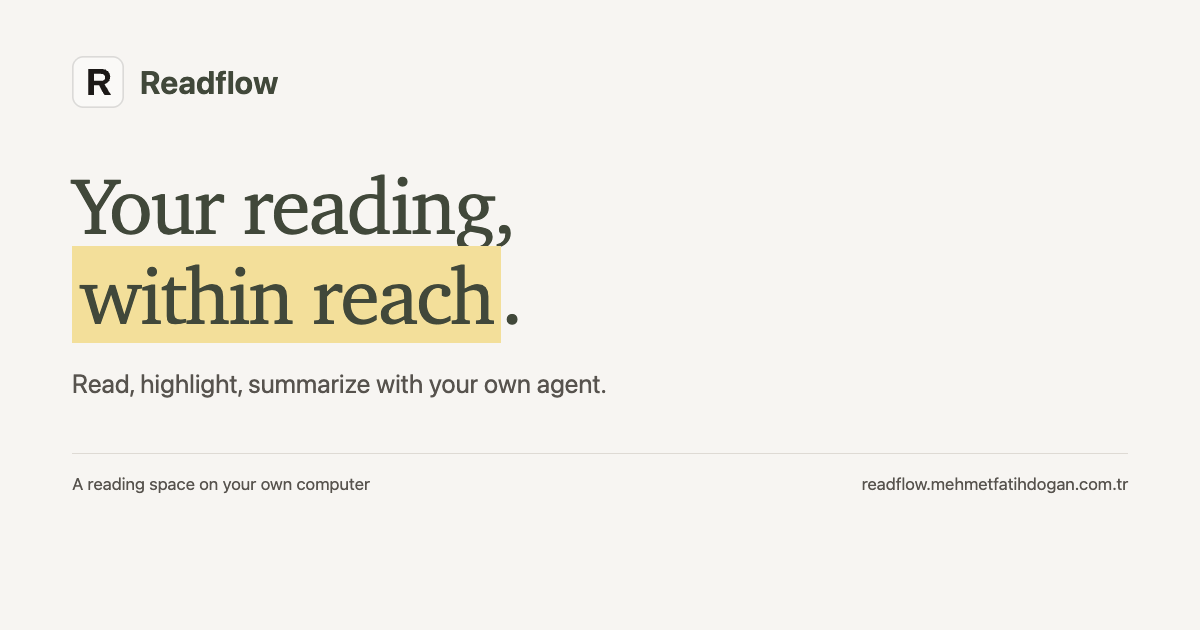
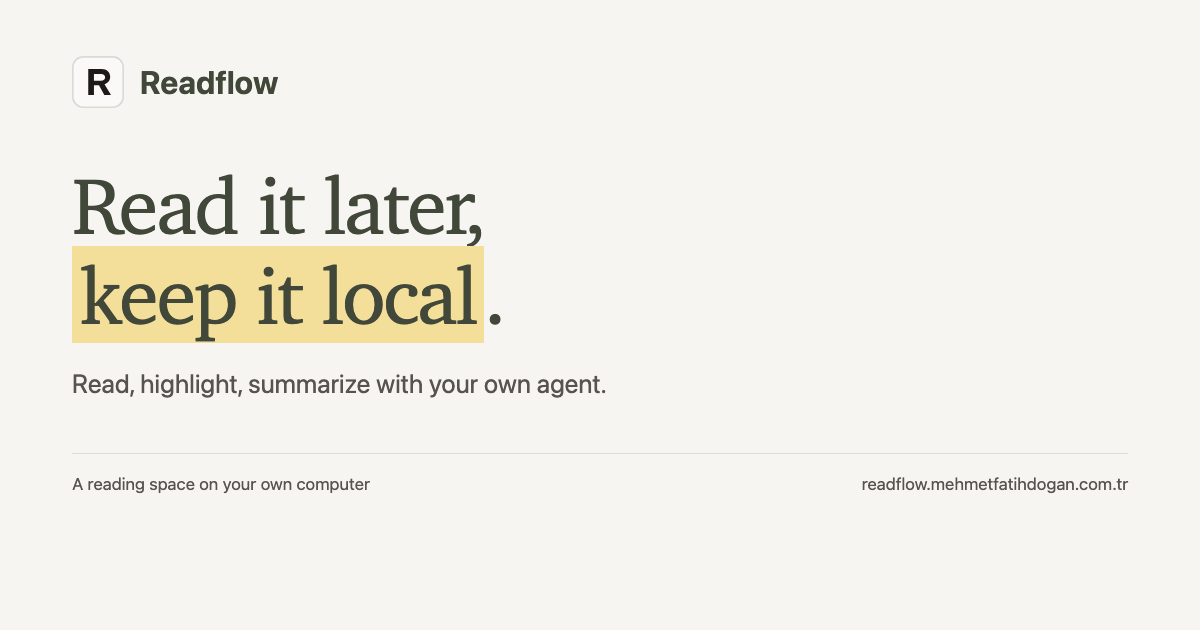
OG: paylaşım kartı ve alt metni yeni konumlandırmaya hizala

Changed region(s): [[0.0617, 0.2714, 0.4317, 0.5429]]

diff --git a/showcase/index.html b/showcase/index.html
@@ -23,12 +23,12 @@
 <meta property="og:image:width" content="1200">
 <meta property="og:image:height" content="630">
 <meta property="og:image:type" content="image/png">
-<meta property="og:image:alt" content="Readflow — Okudukların, elinin altında.">
+<meta property="og:image:alt" content="Readflow paylaşım kartı: makale ve PDF arşivi, okuma listesi ve vurgular — kendi bilgisayarında.">
 <meta name="twitter:card" content="summary_large_image">
 <meta name="twitter:title" content="Readflow — Makale ve PDF Arşivi, Okuma Listesi">
 <meta name="twitter:description" content="Makaleleri ve PDF'leri tek arşive topla; read-it-later okuma listesi, vurgular ve kendi agent'ınla özetler. Local-first: verin senin bilgisayarında.">
 <meta name="twitter:image" content="https://readflow.mehmetfatihdogan.com.tr/assets/og-tr.png">
-<meta name="twitter:image:alt" content="Readflow — Okudukların, elinin altında.">
+<meta name="twitter:image:alt" content="Readflow paylaşım kartı: makale ve PDF arşivi, okuma listesi ve vurgular — kendi bilgisayarında.">
 <link rel="icon" href="/favicon.svg" type="image/svg+xml">
 <link rel="apple-touch-icon" href="/apple-touch-icon.png">
 <link rel="stylesheet" href="/style.css?v=20261006a">

diff --git a/showcase/en/index.html b/showcase/en/index.html
@@ -23,12 +23,12 @@
 <meta property="og:image:width" content="1200">
 <meta property="og:image:height" content="630">
 <meta property="og:image:type" content="image/png">
-<meta property="og:image:alt" content="Readflow — Your reading, within reach.">
+<meta property="og:image:alt" content="Readflow share card: article and PDF archive, reading list and highlights on your own computer.">
 <meta name="twitter:card" content="summary_large_image">
 <meta name="twitter:title" content="Readflow — Read-it-later App for Articles & PDFs">
 <meta name="twitter:description" content="Archive articles and PDFs, keep a read-it-later reading list, highlight and summarize with your own agent. Local-first: your data stays with you.">
 <meta name="twitter:image" content="https://readflow.mehmetfatihdogan.com.tr/assets/og-en.png">
-<meta name="twitter:image:alt" content="Readflow — Your reading, within reach.">
+<meta name="twitter:image:alt" content="Readflow share card: article and PDF archive, reading list and highlights on your own computer.">
 <link rel="icon" href="/favicon.svg" type="image/svg+xml">
 <link rel="apple-touch-icon" href="/apple-touch-icon.png">
 <link rel="stylesheet" href="/style.css?v=20261006a">
